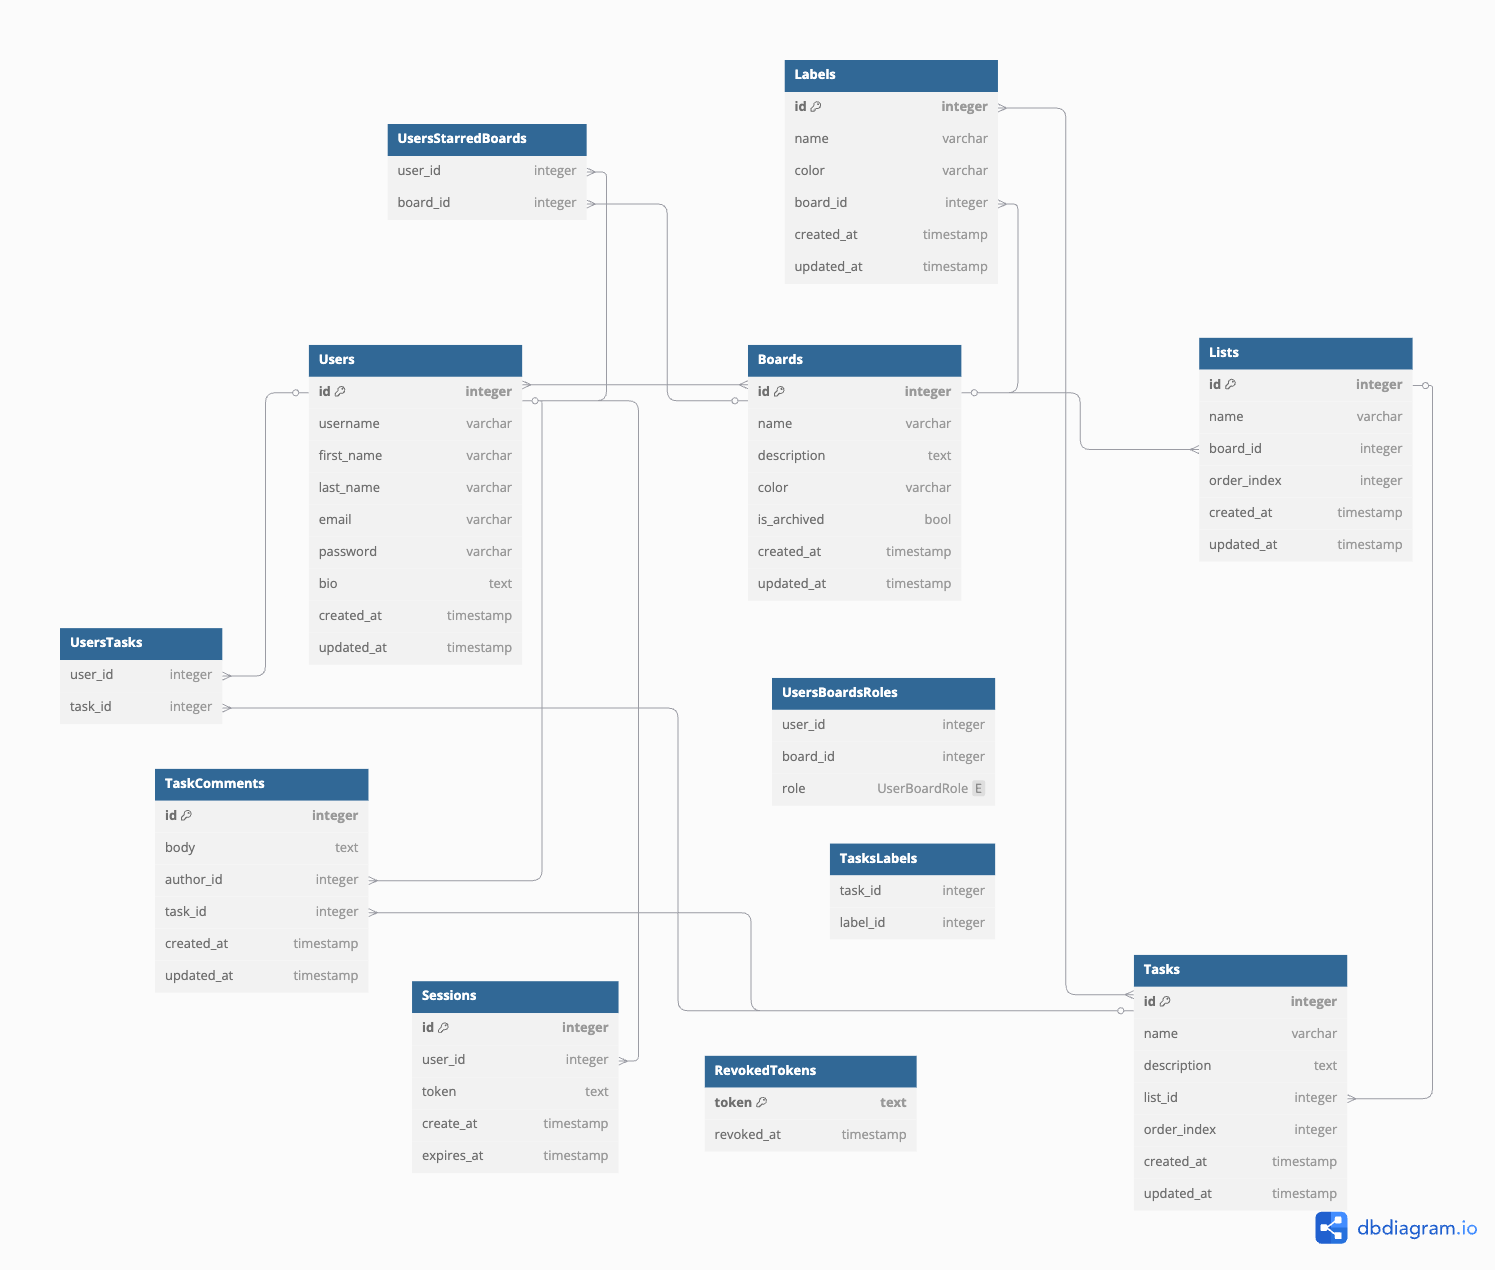
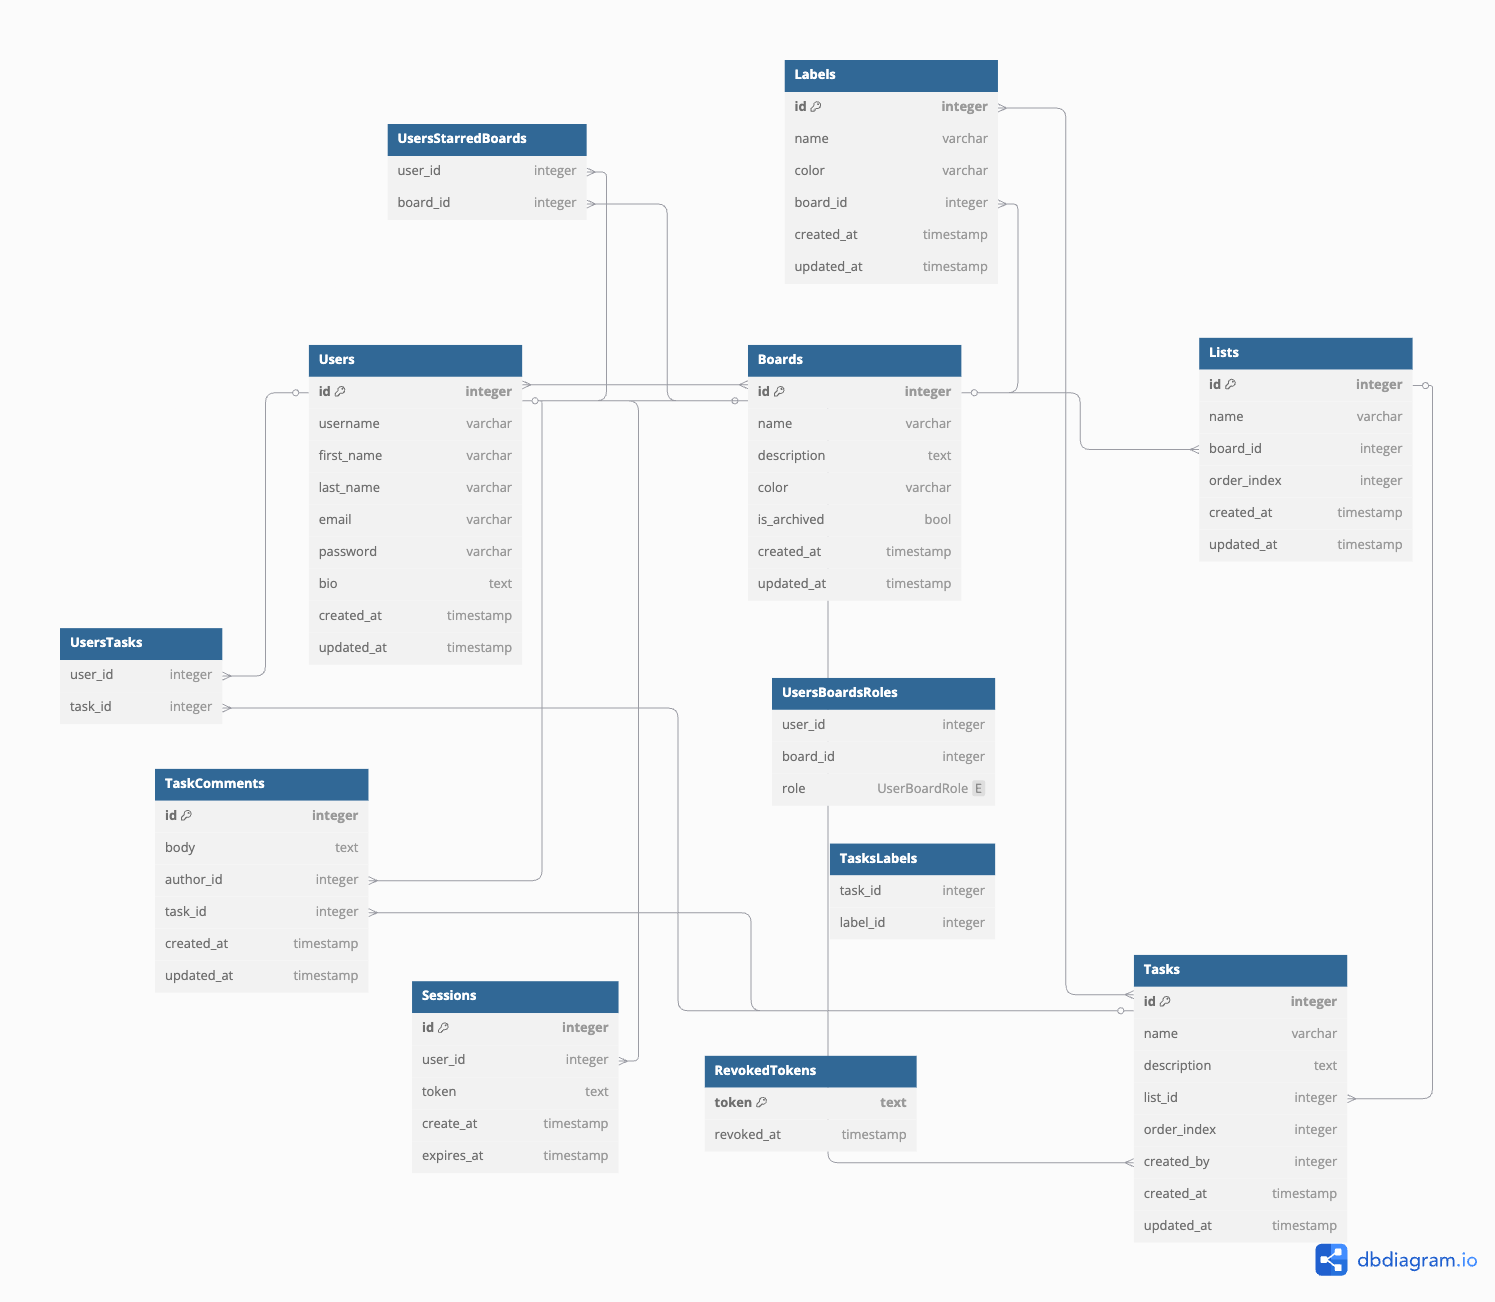
JL-21: Added basic setup for create-task modal

diff --git a/src/app/[locale]/u/boards/[id]/_components/atoms/lists/_components/atoms/modal-create-task/index.js b/src/app/[locale]/u/boards/[id]/_components/atoms/lists/_components/atoms/modal-create-task/index.js
@@ -2,23 +2,24 @@
 
 import { useTranslation } from "react-i18next";
 import { startTransition, useActionState, useEffect } from "react";
-import { Button } from "~/app/components/atoms/button";
 import { Input } from "~/app/components/atoms/input";
 import { ValidationErrors } from "~/app/components/molecules/validation-errors";
 import { Modal } from "~/app/components/atoms/modal";
-import { mutateList } from "~/app/[locale]/u/boards/actions";
+import { createTask } from "~/app/[locale]/u/boards/actions";
+import { Button } from "~/app/components/atoms/button";
+import { TextArea } from "~/app/components/atoms/text-area";
 import styles from "./styles.module.css";
 
-export function ModalMutateList({ boardId, onClose, initialData }) {
+export function ModalCreateTask({ boardId, listId, onClose }) {
   var { t } = useTranslation(undefined, {
-    keyPrefix: "mutate_list",
+    keyPrefix: "create_task",
   });
 
   var {
     0: state,
     1: action,
     2: pending,
-  } = useActionState(mutateList);
+  } = useActionState(createTask);
 
   var handleSubmit = (e) => {
     e.preventDefault();
@@ -38,26 +39,24 @@ export function ModalMutateList({ boardId, onClose, initialData }) {
     <Modal
       isOpen
       onClose={onClose}
-      title={initialData?.id ? t("edit") : t("add")}
+      title={t("title")}
       className={styles.modal}
     >
       <form className={styles.form} onSubmit={handleSubmit}>
-        {initialData?.id && (
-          <input type="hidden" name="id" value={initialData.id} />
-        )}
         <input type="hidden" name="boardId" value={boardId} />
-        <Input
-          id="name"
-          name="name"
-          label={t("name")}
-          defaultValue={initialData?.name}
+        <input type="hidden" name="listId" value={listId} />
+        <Input id="name" name="name" label={t("name")} />
+        <TextArea
+          id="description"
+          name="description"
+          label={t("description")}
         />
-        <Button type="submit" disabled={pending}>
-          {initialData?.id ? t("save") : t("create")}
-        </Button>
         {state?.success === false && (
           <ValidationErrors t={t} data={state} />
         )}
+        <Button type="submit" disabled={pending}>
+          {t("submit")}
+        </Button>
       </form>
     </Modal>
   );

diff --git a/src/app/[locale]/u/boards/[id]/_components/atoms/lists/index.js b/src/app/[locale]/u/boards/[id]/_components/atoms/lists/index.js
@@ -11,14 +11,18 @@ import { ModalMutateList } from "./_components/atoms/modal-mutate-list";
 import { DeleteButton } from "./_components/atoms/delete-button";
 import { reorderList } from "../../../../actions";
 import styles from "./styles.module.css";
+import { ModalCreateTask } from "./_components/atoms/modal-create-task";
 
 export function Lists({ boardId, role, data }) {
   var { t } = useTranslation();
   var { 0: mutateList, 1: setMutateList } = useState(null);
+  var { 0: createTaskForList, 1: setCreateTaskForList } = useState(0);
 
   var swapy = useRef(null);
   var container = useRef(null);
 
+  // TODO: Reorder does not work for newly created lists
+  // This needs to be rewritten and maybe moved to separate hook
   useEffect(() => {
     if (container.current && User.canEditList(role)) {
       swapy.current = createSwapy(container.current, {
@@ -80,7 +84,11 @@ export function Lists({ boardId, role, data }) {
               ))}
             </div>
             <div className={styles.listFooter}>
-              <button type="button" className={styles.addButton}>
+              <button
+                type="button"
+                className={styles.addButton}
+                onClick={() => setCreateTaskForList(list.id)}
+              >
                 <Icons.Plus width="1rem" />
                 {t("add_task")}
               </button>
@@ -102,10 +110,16 @@ export function Lists({ boardId, role, data }) {
       )}
       {!!mutateList && (
         <ModalMutateList
-          isOpen
           boardId={boardId}
           onClose={() => setMutateList(null)}
           initialData={mutateList}
+        />
+      )}
+      {Boolean(createTaskForList) && (
+        <ModalCreateTask
+          boardId={boardId}
+          listId={createTaskForList}
+          onClose={() => setCreateTaskForList(0)}
         />
       )}
     </div>

diff --git a/src/app/[locale]/auth/register/_components/atoms/form/index.js b/src/app/[locale]/auth/register/_components/atoms/form/index.js
@@ -3,10 +3,9 @@
 import Link from "next/link";
 import { startTransition, useActionState } from "react";
 import { useTranslation } from "react-i18next";
-import { Alert } from "~/app/components/atoms/error";
-import { ErrorEntries } from "~/app/components/atoms/error-entries";
 import { PUBLIC_ROUTES } from "~/app/routes";
 import { Input } from "~/app/components/atoms/input";
+import { ValidationErrors } from "~/app/components/molecules/validation-errors";
 import { Success } from "~/app/components/atoms/success";
 import { Button } from "~/app/components/atoms/button";
 import styles from "./styles.module.css";
@@ -44,17 +43,7 @@ export function Form() {
       {!isSuccess && (
         <form onSubmit={handleSubmit} className={styles.form}>
           {state?.success === false && (
-            <div>
-              <Alert type="error" center>
-                {t([`error.${state.message}`, "error.fallback"])}
-              </Alert>
-              <ErrorEntries
-                map={state?.extra}
-                render={(key, value) =>
-                  t(`validation_error.${key}.${value}`)
-                }
-              />
-            </div>
+            <ValidationErrors t={t} data={state} />
           )}
           <Input
             required

diff --git a/src/app/[locale]/u/me/_components/atoms/form-info/index.js b/src/app/[locale]/u/me/_components/atoms/form-info/index.js
@@ -3,9 +3,8 @@
 import { useTranslation } from "react-i18next";
 import { startTransition, useActionState } from "react";
 import { SubmitButton } from "~/app/components/molecules/submit-button";
+import { ValidationErrors } from "~/app/components/molecules/validation-errors";
 import { Input } from "~/app/components/atoms/input";
-import { ErrorEntries } from "~/app/components/atoms/error-entries";
-import { Alert } from "~/app/components/atoms/error";
 import { Success } from "~/app/components/atoms/success";
 import { TextArea } from "~/app/components/atoms/text-area";
 import styles from "./styles.module.css";
@@ -84,17 +83,7 @@ export function FormInfo({ initialValues }) {
           defaultValue={initialValues.bio}
         />
         {state?.success === false && (
-          <div>
-            <Alert type="error" center>
-              {t([`error.${state.message}`, "error.fallback"])}
-            </Alert>
-            <ErrorEntries
-              map={state?.extra}
-              render={(key, value) =>
-                t(`validation_error.${key}.${value}`)
-              }
-            />
-          </div>
+          <ValidationErrors t={t} data={state} />
         )}
         {state?.success && <Success>{t("success")}</Success>}
       </div>

diff --git a/src/app/[locale]/u/boards/_components/molecules/mutate-board-form/index.js b/src/app/[locale]/u/boards/_components/molecules/mutate-board-form/index.js
@@ -5,8 +5,7 @@ import { startTransition, useActionState } from "react";
 import { NAMESPACES } from "~/app/i18n/config";
 import { SubmitButton } from "~/app/components/molecules/submit-button";
 import { Input } from "~/app/components/atoms/input";
-import { ErrorEntries } from "~/app/components/atoms/error-entries";
-import { Alert } from "~/app/components/atoms/error";
+import { ValidationErrors } from "~/app/components/molecules/validation-errors";
 import { Success } from "~/app/components/atoms/success";
 import { TextArea } from "~/app/components/atoms/text-area";
 import styles from "./styles.module.css";
@@ -98,17 +97,7 @@ export function MutateBoardForm({
           labels={initialValues?.labels}
         />
         {state?.success === false && (
-          <div>
-            <Alert type="error" center>
-              {t([`error.${state.message}`, "error.fallback"])}
-            </Alert>
-            <ErrorEntries
-              map={state?.extra}
-              render={(key, value) =>
-                t(`validation_error.${key}.${value}`)
-              }
-            />
-          </div>
+          <ValidationErrors t={t} data={state} />
         )}
         {state?.success && <Success>{t("success")}</Success>}
       </div>

diff --git a/src/app/[locale]/u/boards/actions.js b/src/app/[locale]/u/boards/actions.js
@@ -163,3 +163,39 @@ export async function reorderList({ boardId, listIds }) {
     lists_order: listIds.map(Number),
   });
 }
+
+export async function createTask(_, formData) {
+  try {
+    var boardId = formData.get("boardId");
+    var listId = formData.get("listId");
+    var name = formData.get("name");
+    var description = formData.get("description");
+
+    var assignedUsers =
+      formData.getAll("assigned_users[]")?.map(JSON.parse) || [];
+
+    var assignedLabels =
+      formData.getAll("assigned_labels[]")?.map(JSON.parse) || [];
+
+    await query(API_ROUTES.tasks.create(), "POST", {
+      board_id: Number(boardId),
+      list_id: Number(listId),
+      name,
+      description,
+      assigned_users: assignedUsers,
+      assigned_labels: assignedLabels,
+    });
+
+    revalidatePath(PRIVATE_ROUTES.board(boardId));
+
+    return {
+      success: true,
+    };
+  } catch (error) {
+    return {
+      success: false,
+      message: error.message || MESSAGES.unexpectedError,
+      extra: error.response?.data,
+    };
+  }
+}

diff --git a/src/core/infrastructure/repositories/tasks.repository.js b/src/core/infrastructure/repositories/tasks.repository.js
@@ -19,12 +19,12 @@ export class TasksRepo {
    *  order_index?: number;
    * }} param0
    */
-  async create({ list_id, name, description, order_index }) {
+  async create({ list_id, name, description, order_index, user_id }) {
     try {
       var res = await this.#client.query(
-        `INSERT INTO tasks (name, description, list_id, order_index)
+        `INSERT INTO tasks (name, description, list_id, order_index, created_by)
         VALUES ($1, $2, $3, $4) RETURNING id`,
-        [name, description, list_id, order_index ?? 0],
+        [name, description, list_id, order_index ?? 0, user_id],
       );
 
       var task_id = res.rows?.[0]?.id;

diff --git a/src/app/components/molecules/validation-errors/index.js b/src/app/components/molecules/validation-errors/index.js
@@ -1,0 +1,25 @@
+import { Alert } from "~/app/components/atoms/error";
+import { ErrorEntries } from "~/app/components/atoms/error-entries";
+
+/**
+ * @param {{
+ *  t: Function;
+ *  data: {
+ *    message: string;
+ *    extra?: : Record<string, string>;
+ *  };
+ * }} param0
+ */
+export function ValidationErrors({ t, data }) {
+  return (
+    <div>
+      <Alert type="error" center>
+        {t([`error.${data.message}`, "error.fallback"])}
+      </Alert>
+      <ErrorEntries
+        map={data?.extra}
+        render={(key, value) => t(`validation_error.${key}.${value}`)}
+      />
+    </div>
+  );
+}

diff --git a/scripts/database/migrate.js b/scripts/database/migrate.js
@@ -20,6 +20,10 @@ var {
   m5_add_order_index_column_for_tasks,
 } = require("./migrations/m5_add_order_index_column_for_tasks");
 
+var {
+  m6_add_created_by_column_for_tasks,
+} = require("./migrations/m6_add_created_by_column_for_tasks");
+
 /**
  * @typedef {(client: import("pg").Client) => Promise<QueryResult<any>>} MigrationFn
  */
@@ -33,6 +37,7 @@ var migrations = [
   m3_add_order_index_column_for_lists,
   m4_remove_description_column_from_lists,
   m5_add_order_index_column_for_tasks,
+  m6_add_created_by_column_for_tasks,
 ];
 
 /**

diff --git a/scripts/database/migrations/m6_add_created_by_column_for_tasks.js b/scripts/database/migrations/m6_add_created_by_column_for_tasks.js
@@ -1,0 +1,14 @@
+/**
+ * @param {import("pg").Client} client
+ */
+function m6_add_created_by_column_for_tasks(client) {
+  return client.query(`
+    ALTER TABLE tasks
+    ADD COLUMN IF NOT EXISTS created_by INT
+    REFERENCES users(id) ON DELETE SET NULL DEFAULT NULL
+  `);
+}
+
+module.exports = {
+  m6_add_created_by_column_for_tasks,
+};

diff --git a/src/core/entity/models/task.js b/src/core/entity/models/task.js
@@ -14,6 +14,7 @@ var schema = t.object({
   description: t.string().nullable(),
   list_id: Id,
   order_index: OrderIndex,
+  created_by: Id,
   created_at: Timestamp,
   updated_at: Timestamp,
 });

diff --git a/src/app/[locale]/u/boards/[id]/_components/atoms/lists/_components/atoms/modal-create-task/styles.module.css b/src/app/[locale]/u/boards/[id]/_components/atoms/lists/_components/atoms/modal-create-task/styles.module.css
@@ -1,0 +1,9 @@
+.modal {
+  width: 500px;
+}
+
+.form {
+  display: flex;
+  flex-direction: column;
+  gap: 1rem;
+}
